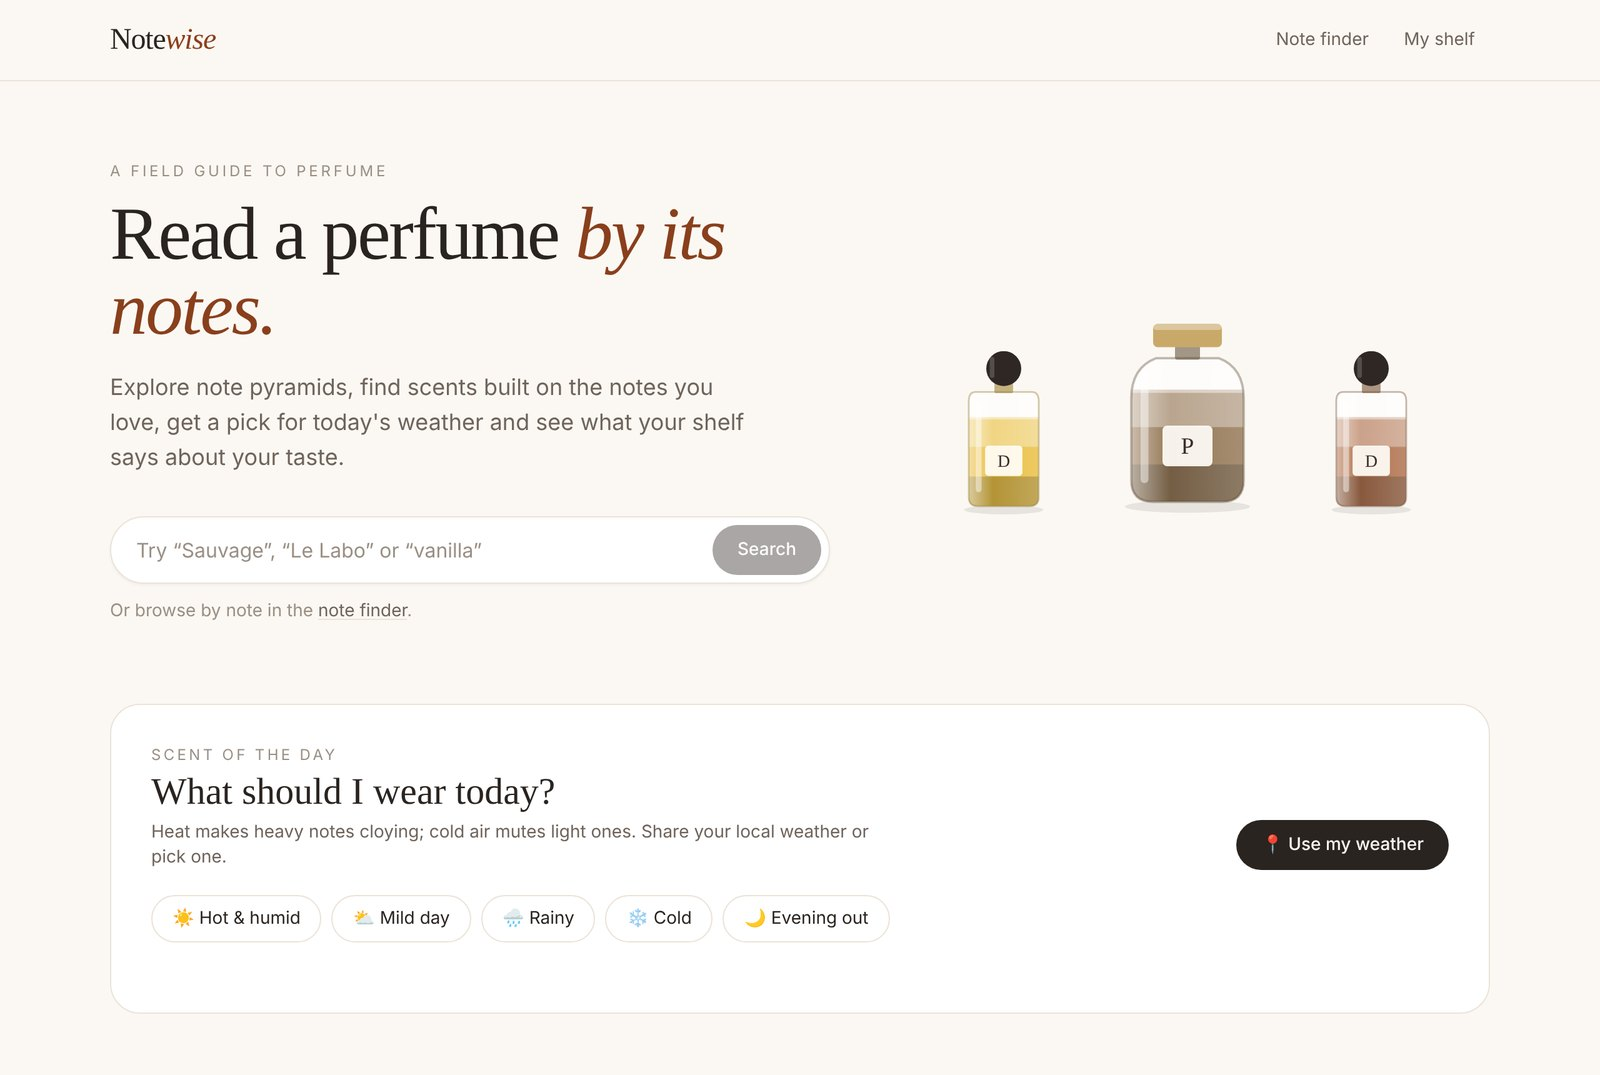
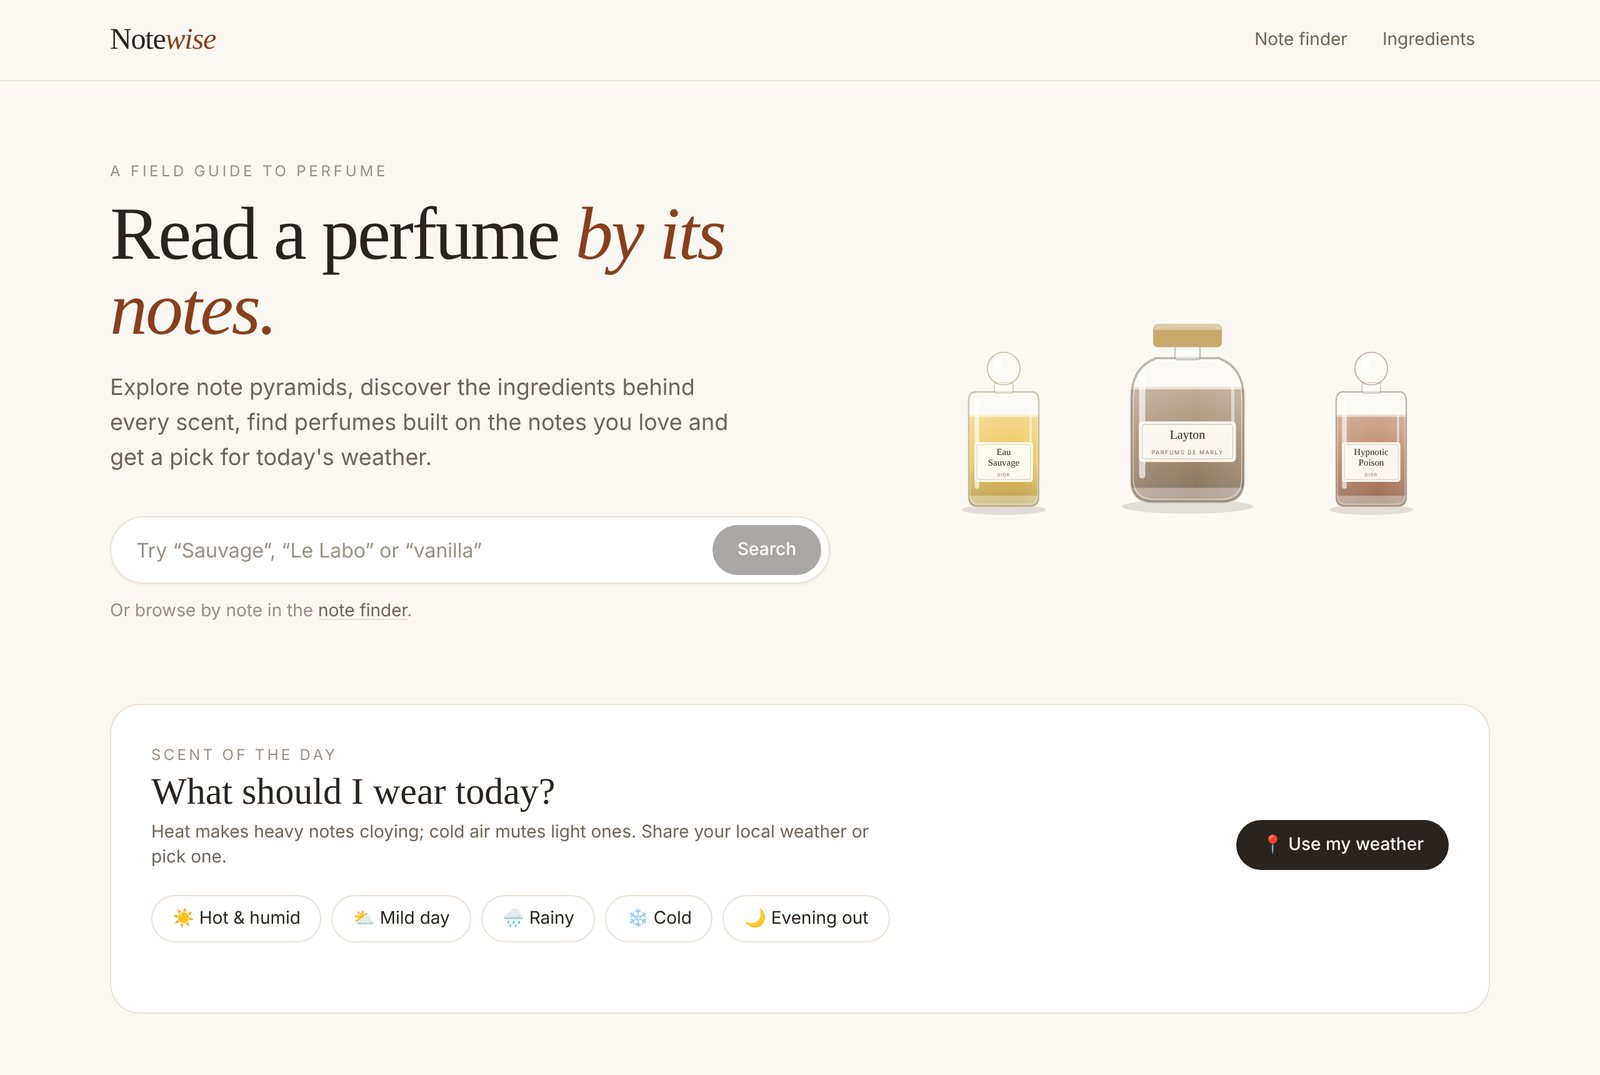
docs: README for ingredient pages, the API contract, tests and CI

diff --git a/README.md b/README.md
@@ -1,6 +1,6 @@
 # Notewise
 
-> **Read a perfume by its notes.** Explore note pyramids, find scents built on the notes you love, get a pick for today's weather and see what your shelf says about your taste.
+> **Read a perfume by its notes.** Explore note pyramids, discover the ingredients behind every scent, find perfumes built on the notes you love and get a pick for today's weather.
 
 ![Go](https://img.shields.io/badge/Go-1.24-00ADD8?logo=go&logoColor=white)
 ![Next.js](https://img.shields.io/badge/Next.js-15-000000?logo=nextdotjs&logoColor=white)
@@ -20,7 +20,7 @@ Perfume descriptions are vague ("fresh", "seductive", "unique"). What actually t
 
 - *"I love vanilla and tonka — what else is built on them?"*
 - *"It's 31°C and humid. What should I wear?"*
-- *"What does my collection say about my taste, and what's missing?"*
+- *"What does oud actually smell like, and which perfumes are built on it?"*
 
 ## 🧠 The solution
 
@@ -32,9 +32,11 @@ Notewise is a **Go API + Next.js** app that turns a free perfume database into a
 | 🧪 **Perfume page** | Note pyramid, character, seasons and moments, and **similar perfumes with the notes they share** |
 | 🎯 **Note finder** | Pick up to 4 notes and filter by where they sit in the pyramid (opening, heart, dry-down) |
 | 🌦 **Scent of the day** | Reads your local weather and recommends perfumes that work in it |
-| 🗂 **My shelf** | Save what you own (in the browser, no account) and get your **scent profile**: families, recurring notes, seasons covered, gaps and suggestions |
+| 🌿 **Ingredients** | A page per note (vanilla, bergamot, oud…): what it smells like, natural or synthetic, what it pairs with and the perfumes built on it, with a photo of the ingredient |
 
-Every bottle is an **SVG illustration generated from the data**: the liquid takes the color of the olfactory family, in three layers (top, heart, base), and the silhouette changes with the concentration. No product photos, so no image-rights issues, and every perfume gets a consistent look.
+Every bottle is an **SVG illustration generated from the data**: transparent glass, a translucent liquid in the color of the olfactory family, the perfume's name on the label and a silhouette that changes with the concentration. Product photos are copyrighted and the free APIs don't allow storing them, so the bottles are drawn instead: no image-rights issues, and every perfume gets a consistent look.
+
+Ingredients are different: photos of vanilla pods or bergamot are generic, so **52 free-licensed photos from Wikimedia Commons** (CC0, public domain, CC BY, CC BY-SA) were curated by hand, cropped and credited on a [credits page](https://notewise-perfumes.vercel.app/credits).
 
 ## 📸 Screenshots
 
@@ -42,9 +44,13 @@ Every bottle is an **SVG illustration generated from the data**: the liquid take
 |---|---|
 | ![Perfume page](docs/screenshots/perfume.jpg) | ![Weather-based recommendation](docs/screenshots/today.jpg) |
 
-| Note finder | Scent profile |
+| Ingredient page | All ingredients |
 |---|---|
-| ![Note finder](docs/screenshots/notes.jpg) | ![Scent profile of a shelf](docs/screenshots/shelf.jpg) |
+| ![Vanilla ingredient page](docs/screenshots/note.jpg) | ![Ingredients grid](docs/screenshots/ingredients.jpg) |
+
+| Note finder |
+|---|
+| ![Note finder](docs/screenshots/notes.jpg) |
 
 <p align="center"><img src="docs/screenshots/mobile.jpg" alt="Mobile perfume page" width="300"></p>
 
@@ -71,7 +77,7 @@ The API follows a layered architecture: each layer has one job and depends on th
 flowchart TB
     R[Router] --> H[Handler<br/><i>HTTP input, status codes, cache headers</i>]
     H --> U[Use case<br/><i>validation, normalization, DTOs</i>]
-    U --> S[Domain services<br/><i>catalog · recommender · profiler</i>]
+    U --> S[Domain services<br/><i>catalog · recommender</i>]
     S --> P[Repository<br/><i>Scento client: cache, singleflight, retry</i>]
 ```
 
@@ -87,24 +93,27 @@ api/
         dto/                     public API contracts
       domain/
         model/                   entities, ids, domain errors
-        service/                 business rules (catalog, recommender, profiler)
+        service/                 business rules (catalog, recommender)
       repository/scento/         Scento client + mapper (+ real-response fixtures)
     crosscutting/
       cache/                     generic TTL cache with singleflight
       config/  logger/  httpx/   env config, slog JSON logs, middleware
 web/
   app/                           pages (App Router)
-  components/                    Bottle (SVG), Pyramid, charts, cards…
-  lib/                           API client, shelf storage, family colors
+  components/                    Bottle (SVG), Pyramid, NoteChip, cards… (+ tests)
+  lib/                           API client, generated API types, note photos, family colors
+  public/notes/                  curated ingredient photos (WebP)
+api/openapi.yaml                 the API contract
+.github/workflows/ci.yml         CI for both apps
 ```
 
 ### Decisions worth explaining
 
 **1. Two cache layers, because the provider asks for it.** Scento's terms ask clients to *cache answers and keep request rates reasonable*. Responses are cached in memory per instance (a generic `TTL[V]` cache) **and** at Vercel's CDN through `Cache-Control: s-maxage` headers. Identical concurrent requests are collapsed into one upstream call with `singleflight`. A repeated perfume lookup went from **~75 ms to under 1 ms** in local tests.
 
-**2. Graceful degradation.** A perfume page loads the profile and the similar perfumes **concurrently** (`errgroup`). The profile is required; neighbours are a nice-to-have, so if that call fails the page is still served without them.
+**2. Concurrency with graceful degradation.** A perfume page loads the profile and the similar perfumes **concurrently** (`errgroup`); an ingredient page loads the note profile and the perfumes containing it the same way. The profile is required; the second call is a nice-to-have, so if it fails the page is still served (the note page falls back to the provider's showcased perfumes).
 
-**3. Bounded concurrency.** Profiling a shelf of 30 perfumes means 30 lookups. They run in parallel but with **at most 5 in flight** (`errgroup.SetLimit`), so one user can't hammer the provider.
+**3. A contract between the two apps.** `api/openapi.yaml` documents every endpoint. The web app's TypeScript types are **generated** from it (`npm run gen:types`), and two checks keep them honest: a Go test fails if a route is added or renamed without updating the contract, and CI fails if the generated types are out of date.
 
 **4. The provider's quirks stay in the repository.** Scento answers *"not found"* with HTTP 200 and `found: false`, some perfumes have a pyramid while others have a flat list, and some names carry artefacts like a trailing `" :"`. The repository maps all of that into a clean domain model and real errors (`404`), so the rest of the code never sees it.
 
@@ -125,13 +134,21 @@ web/
 cd api && go test -race ./...
 ```
 
+```bash
+cd web && npm test
+```
+
+Both run on every push in [GitHub Actions](.github/workflows/ci.yml), together with gofmt, vet, lint, typecheck, the generated-types check and a production build.
+
 | Layer | What is tested |
 |---|---|
 | Repository | Mapping of **real API responses** captured as fixtures, not-found handling, caching, retry on 5xx, no retry/caching of 4xx |
 | Cache | Expiry, bounded size, errors never cached, 50 concurrent loads → 1 call |
-| Services | Weather classification table, ranking, page served when neighbours fail, profile aggregation, bounded concurrency, missing perfumes |
-| Use cases | Input validation and normalization (ids, notes, weather ranges, collection size) |
-| Handlers | Error → status mapping, cache headers, query/body parsing, no leaking of internal errors |
+| Services | Weather classification table, ranking, pages served when the secondary call fails, note name vs slug |
+| Use cases | Input validation and normalization (ids, note slugs, notes, weather ranges) |
+| Handlers | Error → status mapping, cache headers, query parsing, route precedence, no leaking of internal errors |
+| Contract | Every registered route is documented in `openapi.yaml`, and vice versa |
+| Web | Slug and photo matching, color helpers, API client errors, bottle label wrapping and determinism, note chips |
 
 ## ▶ Run locally
 
@@ -168,7 +185,7 @@ curl "localhost:8080/api/v1/perfumes/search?q=sauvage"
 curl "localhost:8080/api/v1/perfumes/eau-sauvage-dior"
 curl "localhost:8080/api/v1/notes/match?notes=vanilla,tonka%20bean&tier=base"
 curl "localhost:8080/api/v1/recommendations/today?temp=31&humidity=80&code=1&isDay=true"
-curl -X POST localhost:8080/api/v1/collection/profile -d '{"perfumeIds":["eau-sauvage-dior","layton-parfums-de-marly"]}'
+curl "localhost:8080/api/v1/notes/pink-pepper"
 ```
 
 | Method | Path | Description |
@@ -178,7 +195,7 @@ curl -X POST localhost:8080/api/v1/collection/profile -d '{"perfumeIds":["eau-sa
 | GET | `/api/v1/notes/match?notes=&tier=` | Perfumes containing all the notes (`tier`: any, top, heart, base) |
 | GET | `/api/v1/families` | The 14 olfactory families |
 | GET | `/api/v1/recommendations/today?temp=&humidity=&code=&isDay=` | Weather-based picks |
-| POST | `/api/v1/collection/profile` | Scent profile of a shelf (`{"perfumeIds": [...]}`, max 30) |
+| GET | `/api/v1/notes/{note}` | Ingredient profile + perfumes containing it |
 | GET | `/api/health` | Health check |
 
 ## 🚀 Deploy on Vercel
@@ -200,14 +217,15 @@ Live at **[notewise-perfumes.vercel.app](https://notewise-perfumes.vercel.app)**
 ## ⚖ Trade-offs and limitations
 
 - 🔴 **Catalog size.** Scento lists ~1,400 perfumes with notes traced to the brands' own published lists. Larger databases exist, but they need keys, paid plans or community-sourced data. I chose accuracy and zero friction for a public demo.
-- 🔴 **The shelf lives in the browser.** No account means instant use, but the shelf doesn't sync across devices. Accounts and a database would be the next step.
+- 🔴 **Ingredient photos cover 52 notes.** The rest show a styled initial. Each photo was reviewed by hand, which keeps quality high but doesn't scale to the ~400 materials in the database.
 - 🔴 **Per-instance memory cache.** Serverless instances don't share memory, so the CDN cache does most of the work. A shared cache (e.g. Redis) would help at higher traffic.
-- 🔴 **Recommendation rules are heuristics.** The weather rules encode common perfumery advice, not personal taste. Combining them with the user's shelf profile would make them personal.
+- 🔴 **Recommendation rules are heuristics.** The weather rules encode common perfumery advice, not personal taste. Learning from what a visitor opens would make them personal.
 
 ## 🙏 Credits
 
 - Perfume data: **[Scento Perfume API, scento.com](https://www.scento.com/developers/perfume-api)**, used under its terms (cached, low request rate, attribution shown on every page).
 - Weather: **[Open-Meteo](https://open-meteo.com)**.
+- Ingredient photos: free-licensed works from **[Wikimedia Commons](https://commons.wikimedia.org)**, each credited with author and license on the [credits page](https://notewise-perfumes.vercel.app/credits) and in `web/lib/note-photos.json`.
 
 ---
 
